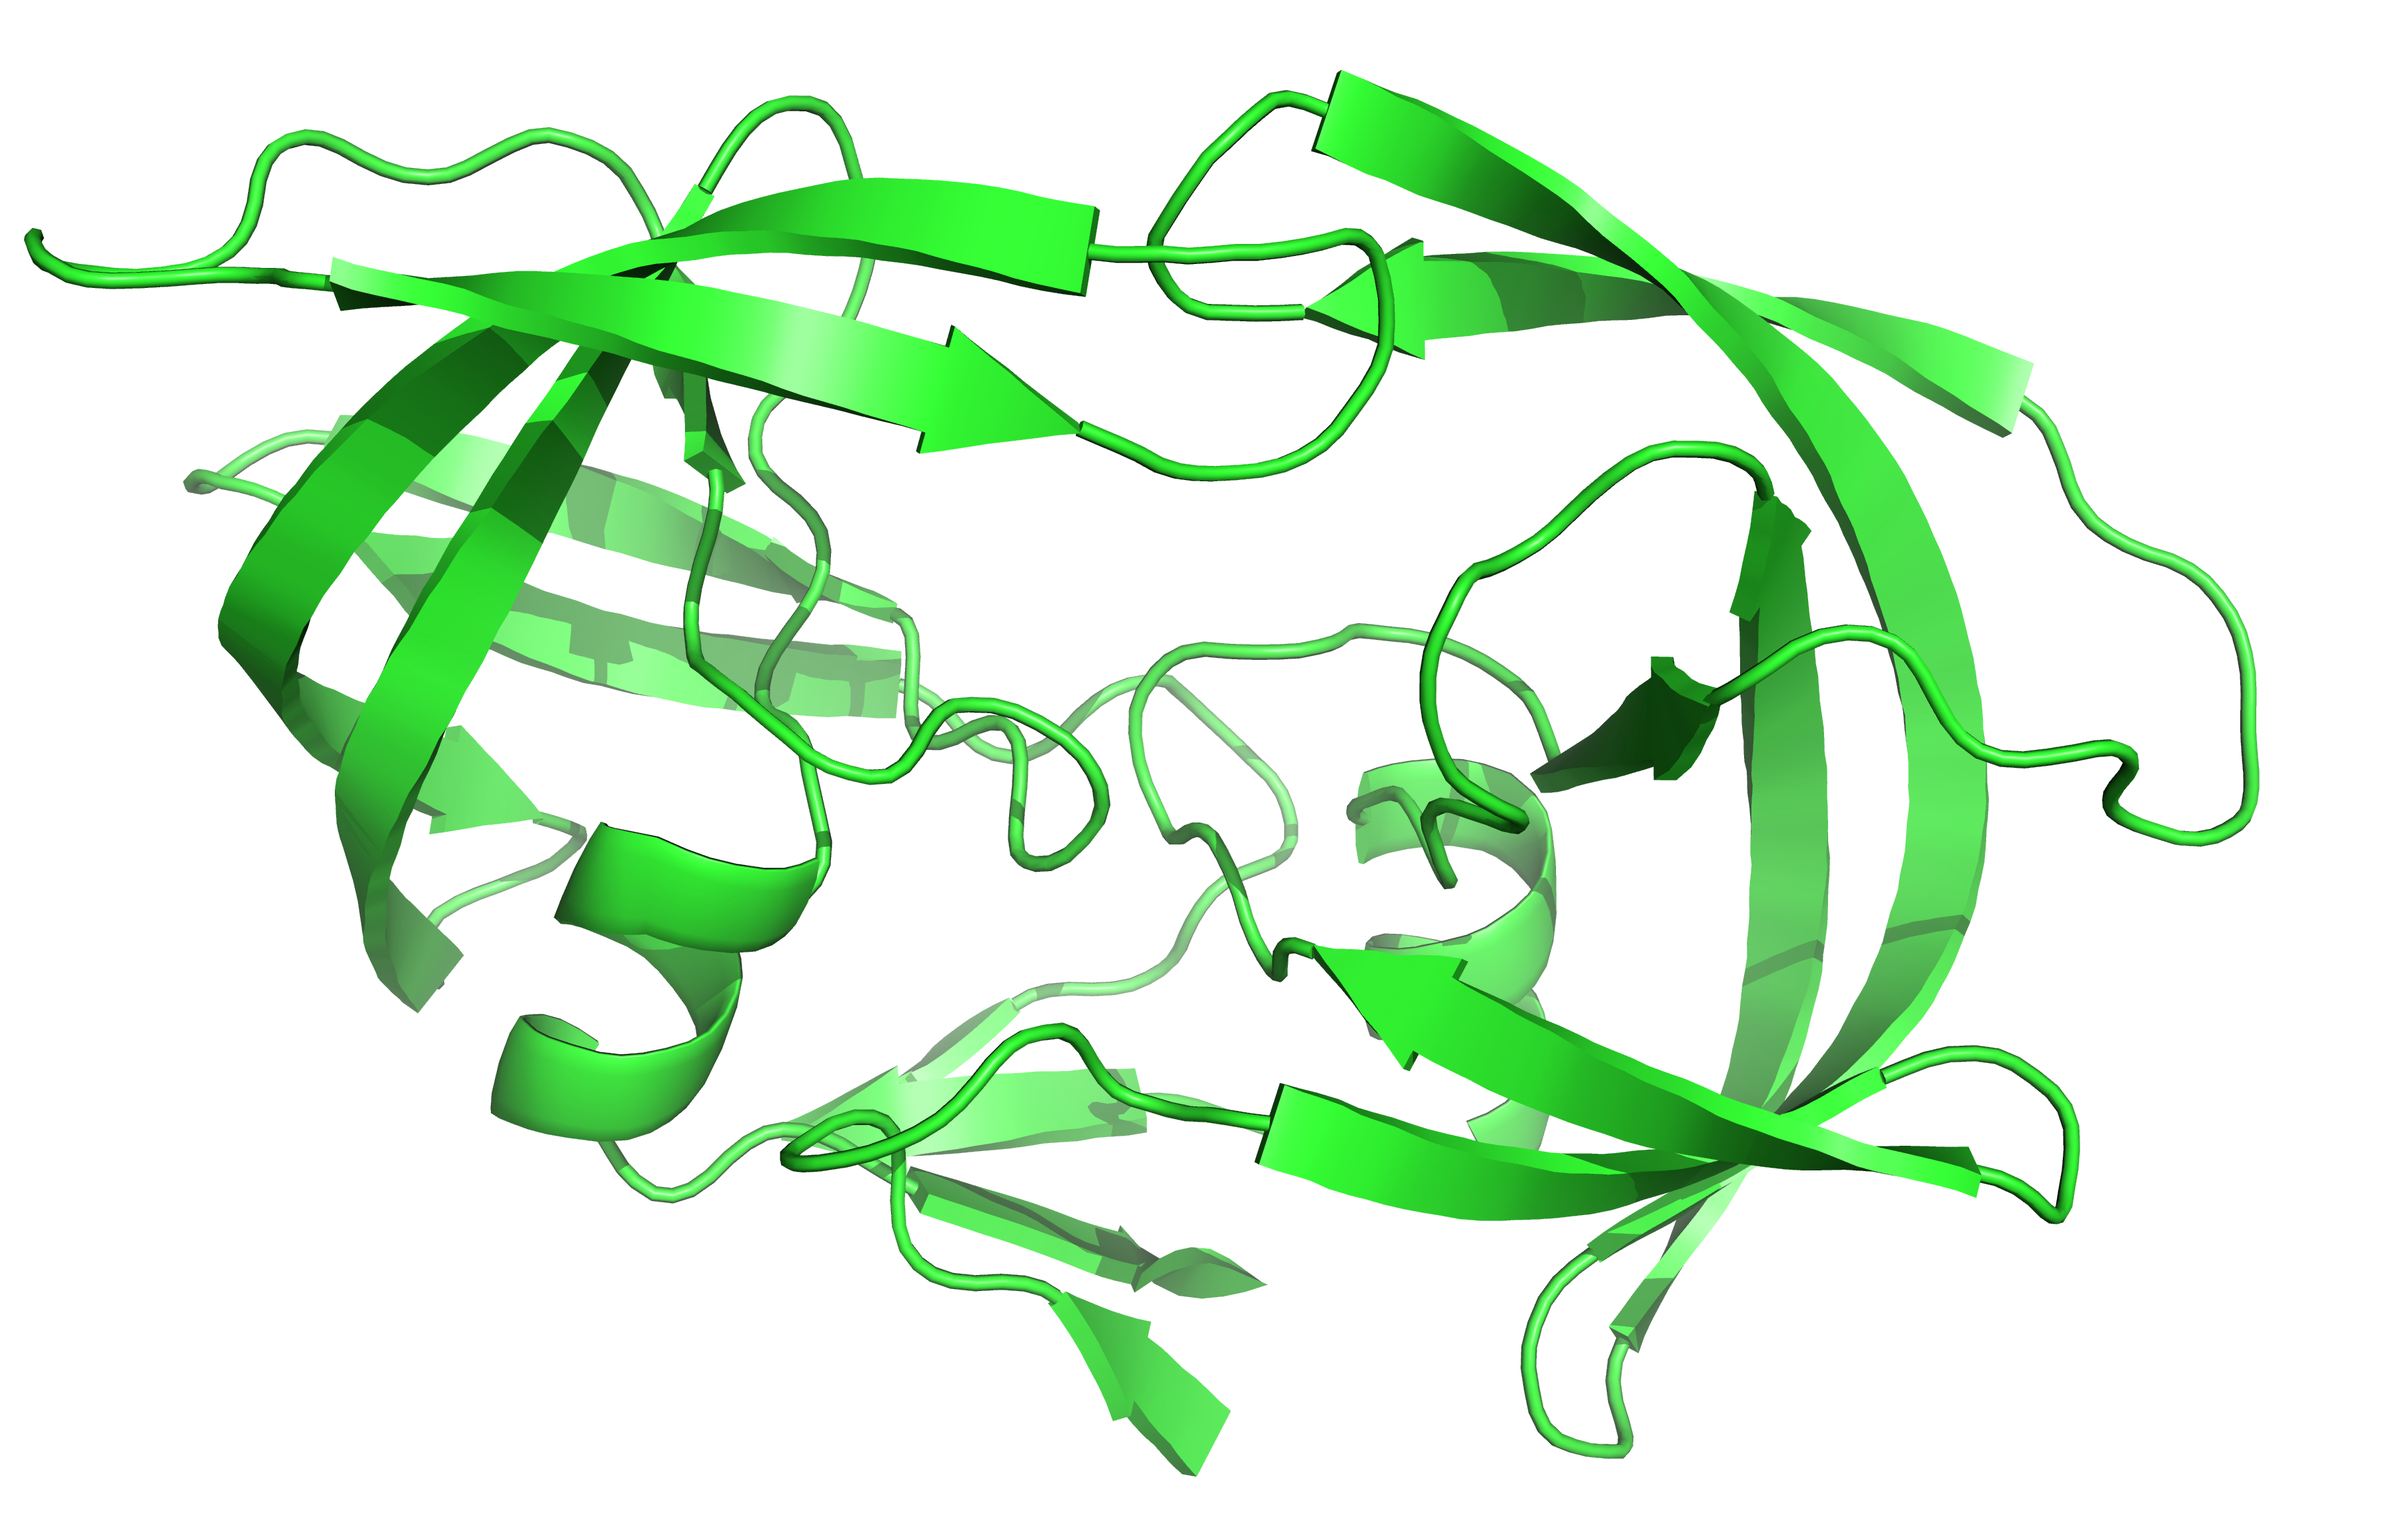
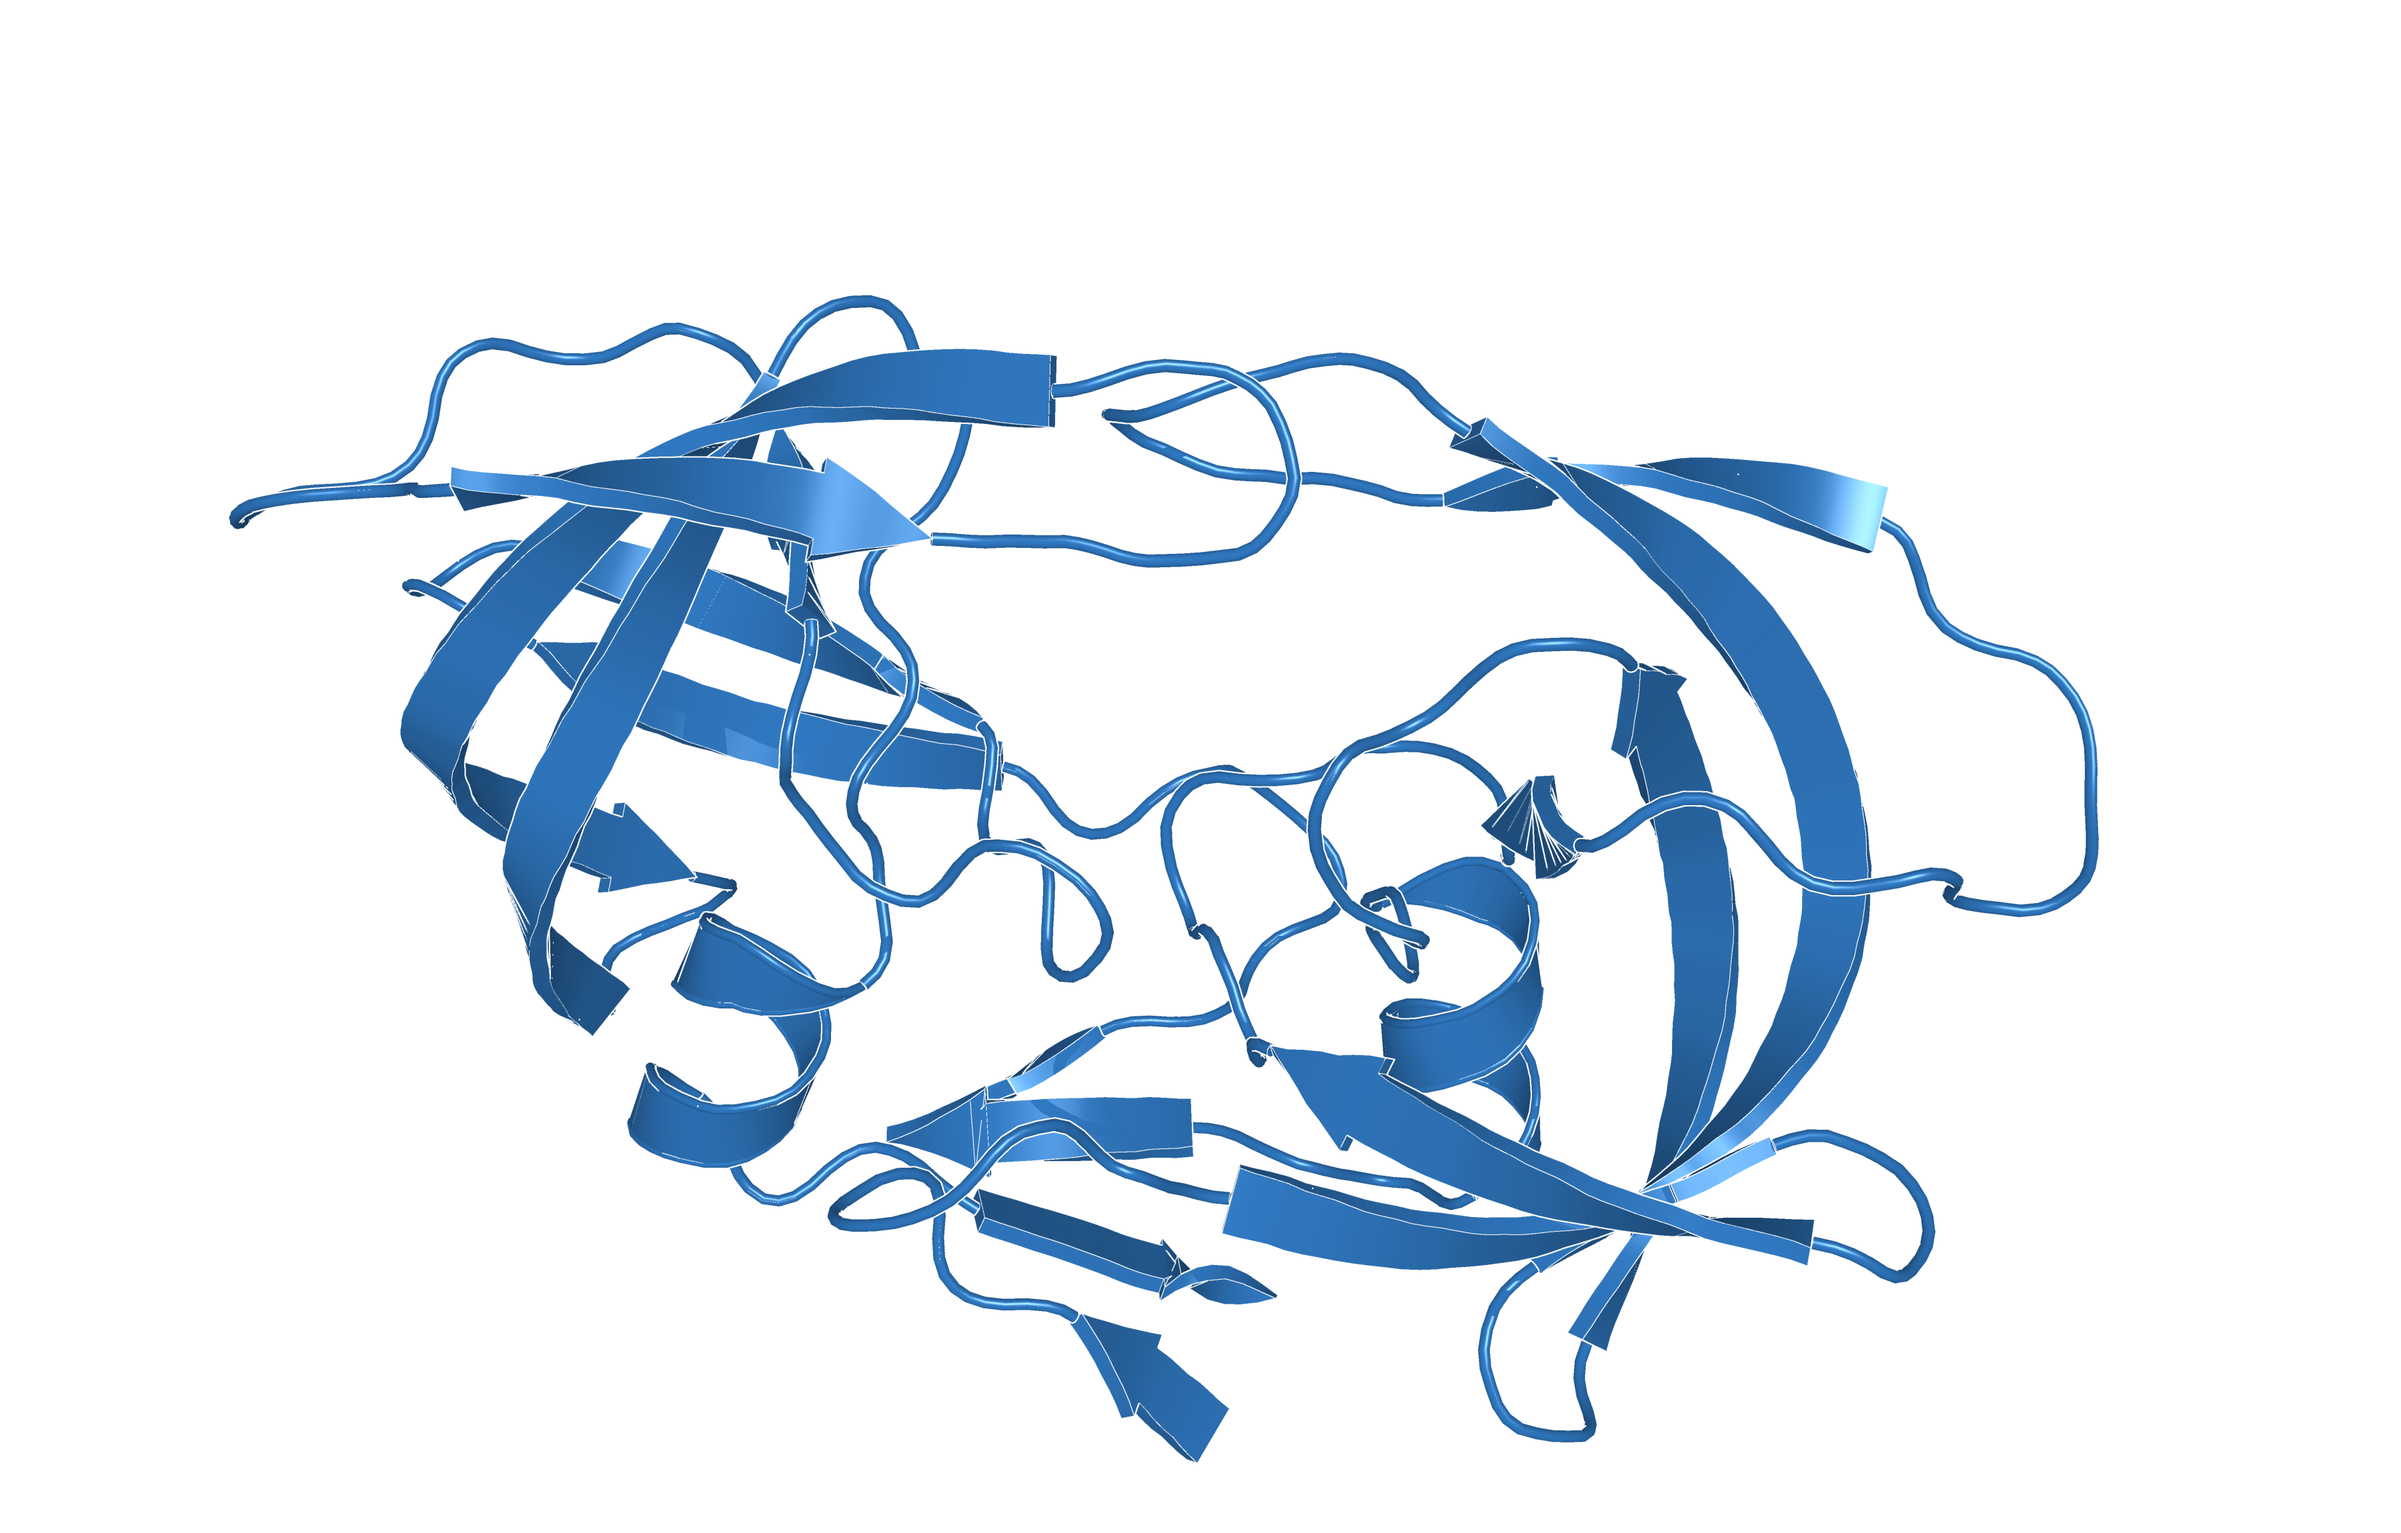
Redone pymol images.

Changed region(s): [[0.0, 0.0309, 0.9333, 0.957], [0.9022, 0.3704, 0.9644, 0.5248], [0.8711, 0.3396, 0.9022, 0.3704]]

diff --git a/paper/4-fig/porc_256l.py b/paper/4-fig/porc_256l.py
@@ -3,6 +3,7 @@ from pymol import cmd
 cmd.load("modevectors.py")
 cmd.load("./cut_avg_256l.pdb")
 cmd.load("disp_avg_256l.pdb")
+cmd.load("pock_256l_1.pdb")
 
 cmd.set_view ( '''0.315200627,   -0.223496795,    0.922329843,\
      0.930618227,    0.263243794,   -0.254244953,\
@@ -11,10 +12,18 @@ cmd.set_view ( '''0.315200627,   -0.223496795,    0.922329843,\
     32.342666626,   35.357192993,   38.785629272,\
   -274.016784668,  475.400878906,  -20.000000000''' )
 
-modevectors("cut_avg_256l", "disp_avg_256l", head=.7, tail=0.2, head_length=1.2, headrgb=".25,.5,.8", tailrgb=".25,.5,.8", cutoff=2)
+modevectors("cut_avg_256l", "disp_avg_256l", head=.7, tail=0.2, head_length=1.2, headrgb="1.0,0.0,0.0", tailrgb="1.0,0.0,0.0", cutoff=2)
 
 cmd.hide('''cartoon''', '''resi 59+60+61+92+93+94+133+134''' )
 
 cmd.set('''ray_opaque_background''', '''off''')
+cmd.color("deepsalmon", "pock_256l_1")
+cmd.color("skyblue", "cut_avg_256l")
+cmd.set("cartoon_fancy_helices", 1)
+cmd.set("ray_trace_mode",  1)
+cmd.set("two_sided_lighting", "on")
+cmd.set("reflect", 0)
+cmd.set("ambient", 0.5)
 
-cmd.png("4d-porc_256l.png", width=3600, height=2300, dpi=600, ray=1)
+
+#cmd.png("4d-porc_256l.png", width=3600, height=2300, dpi=600, ray=1)

diff --git a/paper/4-fig/porc_1hvr_hol.py b/paper/4-fig/porc_1hvr_hol.py
@@ -3,6 +3,7 @@ from pymol import cmd
 cmd.load("modevectors.py")
 cmd.load("./avg_1hvr_hol.pdb")
 cmd.load("disp_avg_1hvr_hol.pdb")
+cmd.load("pock_1hvr_hol_1.pdb")
 
 cmd.set_view ( '''-0.554374218,    0.354257464,    0.753099322,\
     -0.799625099,    0.024184536,   -0.599998593,\
@@ -12,8 +13,19 @@ cmd.set_view ( '''-0.554374218,    0.354257464,    0.753099322,\
    -99.837615967,  352.591064453,  -20.000000000''' )
 
 
-modevectors("avg_1hvr_hol", "disp_avg_1hvr_hol", head=.7, tail=0.2, head_length=1.2, headrgb=".25,.5,.8", tailrgb=".25,.5,.8", cutoff=1.5)
+modevectors("avg_1hvr_hol", "disp_avg_1hvr_hol", head=.7, tail=0.2, head_length=1.2, headrgb="1.0,0.0,0.0", tailrgb="1.0,0.0,0.0", cutoff=1.5)
 
+cmd.show("spheres", "resn LIG") 
 cmd.set('''ray_opaque_background''', '''off''')
+cmd.color("deepsalmon", "pock_1hvr_hol_1")
+cmd.color("skyblue", "avg_1hvr_hol")
+cmd.color("ruby", "resn LIG")
+cmd.set("cartoon_fancy_helices", 1)
+cmd.set("ray_trace_mode",  1)
+cmd.set("two_sided_lighting", "on")
+cmd.set("reflect", 0)
+cmd.set("ambient", 0.5)
 
-cmd.png("4b-porc_1hvr_hol.png", width=3600, height=2300, dpi=600, ray=1)
+
+
+#cmd.png("4b-porc_1hvr_hol.png", width=3600, height=2300, dpi=600, ray=1)

diff --git a/paper/4-fig/porc_1hvr_apo.py b/paper/4-fig/porc_1hvr_apo.py
@@ -3,6 +3,7 @@ from pymol import cmd
 cmd.load("modevectors.py")
 cmd.load("./avg_1hvr_apo.pdb")
 cmd.load("disp_avg_1hvr_apo.pdb")
+cmd.load("pock_1hvr_apo_1.pdb")
 
 cmd.set_view ( '''-0.554374218,    0.354257464,    0.753099322,\
     -0.799625099,    0.024184536,   -0.599998593,\
@@ -12,8 +13,16 @@ cmd.set_view ( '''-0.554374218,    0.354257464,    0.753099322,\
    -99.837615967,  352.591064453,  -20.000000000''' )
 
 
-modevectors("avg_1hvr_apo", "disp_avg_1hvr_apo", head=.7, tail=0.2, head_length=1.2, headrgb=".25,.5,.8", tailrgb=".25,.5,.8", cutoff=1.5)
+modevectors("avg_1hvr_apo", "disp_avg_1hvr_apo", head=.7, tail=0.2, head_length=1.2, headrgb="1.0,0.0,0.0", tailrgb="1.0,0.0,0.0", cutoff=1.5)
 
 cmd.set('''ray_opaque_background''', '''off''')
+cmd.color("deepsalmon", "pock_1hvr_apo_1")
+cmd.color("skyblue", "avg_1hvr_apo")
+cmd.set("cartoon_fancy_helices", 1)
+cmd.set("ray_trace_mode",  1)
+cmd.set("two_sided_lighting", "on")
+cmd.set("reflect", 0)
+cmd.set("ambient", 0.5)
+
 
 cmd.png("4a-porc_1hvr_apo.png", width=3600, height=2300, dpi=600, ray=1)

diff --git a/paper/1-fig/fig-1_pymol.py b/paper/1-fig/fig-1_pymol.py
@@ -1,0 +1,30 @@
+from pymol import cmd
+
+cmd.load("avg_1hvr_apo.pdb")
+cmd.load("out_2_avg_1hvr_apo_1.pdb")
+cmd.load("out_lop_avg_1hvr_apo_1.pdb")
+cmd.load("out_hip_avg_1hvr_apo_1.pdb")
+
+cmd.set_view ( '''-0.554374218,    0.354257464,    0.753099322,\
+    -0.799625099,    0.024184536,   -0.599998593,\
+    -0.230775893,   -0.934826553,    0.269876897,\
+     0.000570767,   -0.000263005, -126.341300964,\
+    44.034534454,   42.536033630,   34.025039673,\
+   -99.837615967,  352.591064453,  -20.000000000''' )
+
+
+cmd.load("out_CH_1hvr_apo.py")
+cmd.show("lines", "out_*_avg_1hvr_apo_1")
+cmd.set('''ray_opaque_background''', '''off''')
+cmd.color("skyblue", "avg_1hvr_apo")
+cmd.color("deepsalmon", "out_2_avg_1hvr_apo_1")
+cmd.color("red", "out_hip_avg_1hvr_apo_1")
+cmd.color("red", "out_lop_avg_1hvr_apo_1")
+cmd.set("cartoon_fancy_helices", 1)
+cmd.set("ray_trace_mode",  1)
+cmd.set("two_sided_lighting", "on")
+cmd.set("reflect", 0)
+cmd.set("ambient", 0.5)
+
+
+#cmd.png("2a--fig_1hvr_apo.png", width=3600, height=2300, dpi=600, ray=1)

diff --git a/paper/4-fig/porc_1m14.py b/paper/4-fig/porc_1m14.py
@@ -3,6 +3,7 @@ from pymol import cmd
 cmd.load("modevectors.py")
 cmd.load("./cut_avg_1m14.pdb")
 cmd.load("disp_avg_1m14.pdb")
+cmd.load("pock_1m14_1.pdb")
 
 cmd.set_view ( '''0.634891212,    0.608652472,    0.475852638,\
     -0.286199570,   -0.386813581,    0.876609623,\
@@ -12,8 +13,16 @@ cmd.set_view ( '''0.634891212,    0.608652472,    0.475852638,\
    130.975585938,  213.611175537,  -20.000000000''' )
 
 
-modevectors("cut_avg_1m14", "disp_avg_1m14", head=.7, tail=0.2, head_length=1.2, headrgb=".25,.5,.8", tailrgb=".25,.5,.8", cutoff=1.5)
+modevectors("cut_avg_1m14", "disp_avg_1m14", head=.7, tail=0.2, head_length=1.2, headrgb="1.0,0.0,0.0", tailrgb="1.0,0.0,0.0", cutoff=1.55)
 
 cmd.set('''ray_opaque_background''', '''off''')
+cmd.color("deepsalmon", "pock_1m14_1")
+cmd.color("skyblue", "cut_avg_1m14")
+cmd.set("cartoon_fancy_helices", 1)
+cmd.set("ray_trace_mode",  1)
+cmd.set("two_sided_lighting", "on")
+cmd.set("reflect", 0)
+cmd.set("ambient", 0.5)
+
 
 cmd.png("4c-porc_1m14.png", width=3600, height=2300, dpi=600, ray=1)

diff --git a/paper/2-fig/porc_1hvr_hol.py b/paper/2-fig/porc_1hvr_hol.py
@@ -1,0 +1,26 @@
+from pymol import cmd
+
+cmd.load("./avg_1hvr_hol.pdb")
+
+cmd.set_view ( '''-0.554374218,    0.354257464,    0.753099322,\
+    -0.799625099,    0.024184536,   -0.599998593,\
+    -0.230775893,   -0.934826553,    0.269876897,\
+     0.000570767,   -0.000263005, -126.341300964,\
+    44.034534454,   42.536033630,   34.025039673,\
+   -99.837615967,  352.591064453,  -20.000000000''' )
+
+
+cmd.hide("lines")
+cmd.show("cartoon")
+cmd.show("sticks", "resn LIG") 
+cmd.set('''ray_opaque_background''', '''off''')
+cmd.color("skyblue", "avg_1hvr_hol")
+cmd.color("ruby", "resn LIG")
+cmd.set("cartoon_fancy_helices", 1)
+cmd.set("ray_trace_mode",  1)
+cmd.set("two_sided_lighting", "on")
+cmd.set("reflect", 0)
+cmd.set("ambient", 0.5)
+
+
+cmd.png("2b--fig_1hvr_hol.png", width=3600, height=2300, dpi=600, ray=1)

diff --git a/paper/2-fig/porc_1hvr_apo.py b/paper/2-fig/porc_1hvr_apo.py
@@ -1,0 +1,24 @@
+from pymol import cmd
+
+cmd.load("./avg_1hvr_apo.pdb")
+
+cmd.set_view ( '''-0.554374218,    0.354257464,    0.753099322,\
+    -0.799625099,    0.024184536,   -0.599998593,\
+    -0.230775893,   -0.934826553,    0.269876897,\
+     0.000570767,   -0.000263005, -126.341300964,\
+    44.034534454,   42.536033630,   34.025039673,\
+   -99.837615967,  352.591064453,  -20.000000000''' )
+
+
+cmd.hide("lines")
+cmd.show("cartoon")
+cmd.set('''ray_opaque_background''', '''off''')
+cmd.color("skyblue", "avg_1hvr_apo")
+cmd.set("cartoon_fancy_helices", 1)
+cmd.set("ray_trace_mode",  1)
+cmd.set("two_sided_lighting", "on")
+cmd.set("reflect", 0)
+cmd.set("ambient", 0.5)
+
+
+cmd.png("2a--fig_1hvr_apo.png", width=3600, height=2300, dpi=600, ray=1)

diff --git a/paper/2-fig/porc_1m14.py b/paper/2-fig/porc_1m14.py
@@ -1,0 +1,24 @@
+from pymol import cmd
+
+cmd.load("./cut_avg_1m14.pdb")
+
+cmd.set_view ( '''0.634891212,    0.608652472,    0.475852638,\
+    -0.286199570,   -0.386813581,    0.876609623,\
+     0.717629075,   -0.692744732,   -0.071385831,\
+    -0.000408612,    0.000077665, -172.362731934,\
+    42.636550903,   40.164215088,   40.002758026,\
+   130.975585938,  213.611175537,  -20.000000000''' )
+
+
+cmd.hide("lines")
+cmd.show("cartoon")
+cmd.set('''ray_opaque_background''', '''off''')
+cmd.color("skyblue", "cut_avg_1m14")
+cmd.set("cartoon_fancy_helices", 1)
+cmd.set("ray_trace_mode",  1)
+cmd.set("two_sided_lighting", "on")
+cmd.set("reflect", 0)
+cmd.set("ambient", 0.5)
+
+
+cmd.png("2c--fig_1m14.png", width=3600, height=2300, dpi=600, ray=1)

diff --git a/paper/2-fig/porc_256l.py b/paper/2-fig/porc_256l.py
@@ -1,0 +1,24 @@
+from pymol import cmd
+
+cmd.load("./cut_avg_256l.pdb")
+
+cmd.set_view ( '''0.315200627,   -0.223496795,    0.922329843,\
+     0.930618227,    0.263243794,   -0.254244953,\
+    -0.185979143,    0.938482106,    0.290963858,\
+    -0.000527410,   -0.000355184, -100.719245911,\
+    32.342666626,   35.357192993,   38.785629272,\
+  -274.016784668,  475.400878906,  -20.000000000''' )
+
+
+cmd.hide("lines")
+cmd.show("cartoon")
+cmd.set('''ray_opaque_background''', '''off''')
+cmd.color("skyblue", "cut_avg_256l")
+cmd.set("cartoon_fancy_helices", 1)
+cmd.set("ray_trace_mode",  1)
+cmd.set("two_sided_lighting", "on")
+cmd.set("reflect", 0)
+cmd.set("ambient", 0.5)
+
+
+cmd.png("2d--fig_256l.png", width=3600, height=2300, dpi=600, ray=1)

diff --git a/paper/2-fig/porc_1prn.py b/paper/2-fig/porc_1prn.py
@@ -1,0 +1,16 @@
+from pymol import cmd
+
+cmd.load("modevectors.py")
+cmd.load("./avg_1prn.pdb")
+cmd.load("disp_avg_1prn.pdb")
+
+cmd.set_view ( '''0.705788314,   -0.370076984,   -0.604060292,\
+    -0.475935459,    0.383867979,   -0.791268468,\
+     0.524721146,    0.845966756,    0.094793379,\
+    -0.000039771,   -0.000701737, -149.239501953,\
+    37.312110901,   36.388977051,   37.234172821,\
+   112.251243591,  186.226913452,  -20.000000000''' )
+
+modevectors("avg_1prn", "disp_avg_1prn", head=.7, tail=0.2, head_length=1.2, headrgb=".25,.5,.8", tailrgb=".25,.5,.8", cutoff=1.5)
+
+cmd.png("4c-porc_1prn.png", width=3600, height=2300, dpi=600, ray=1)
